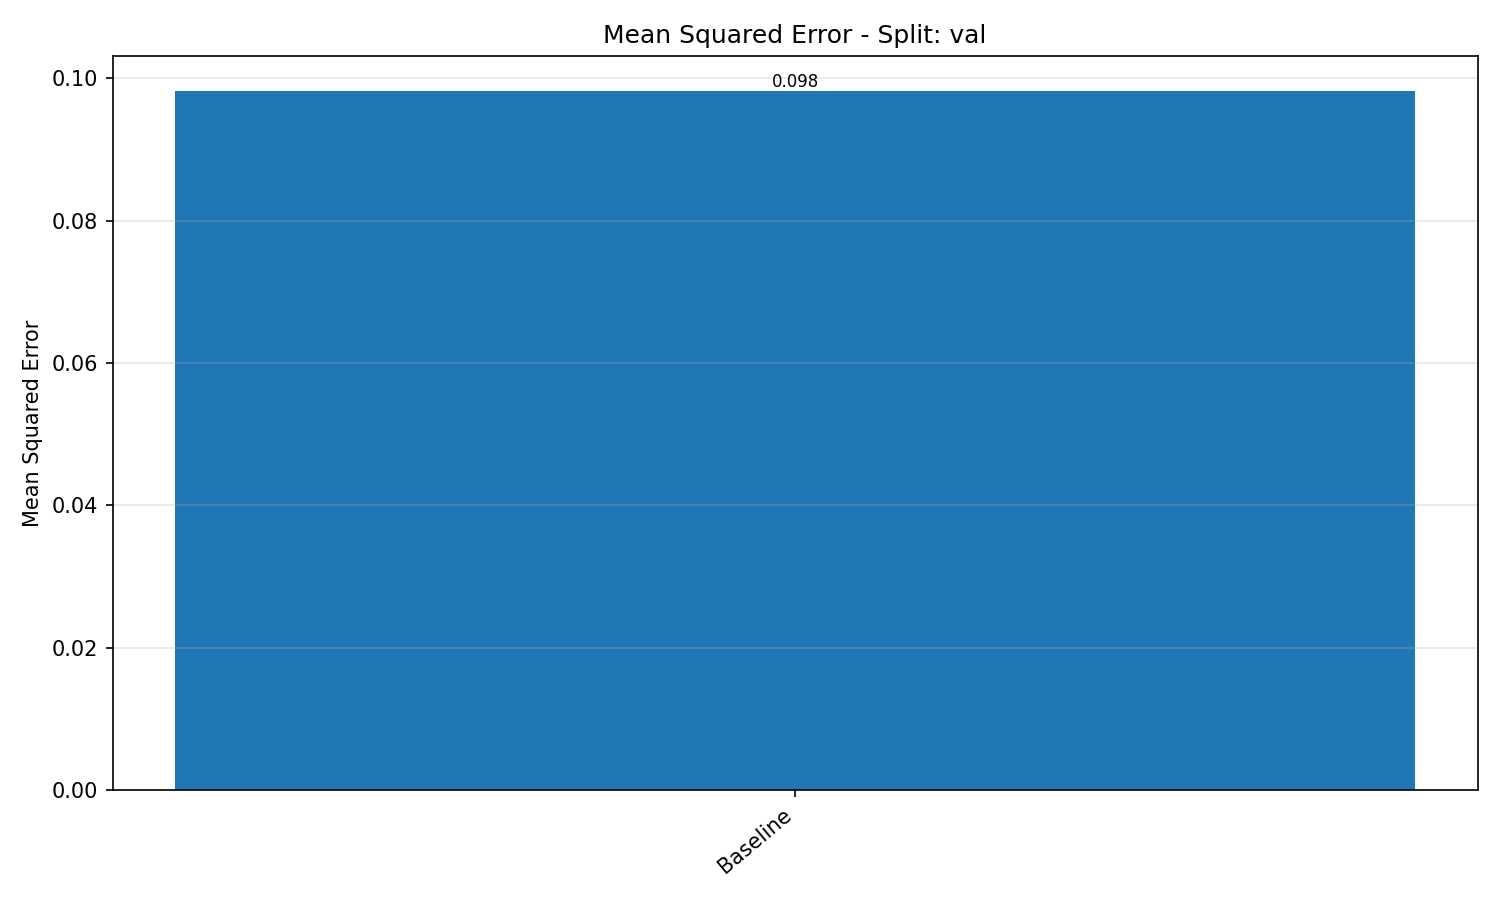
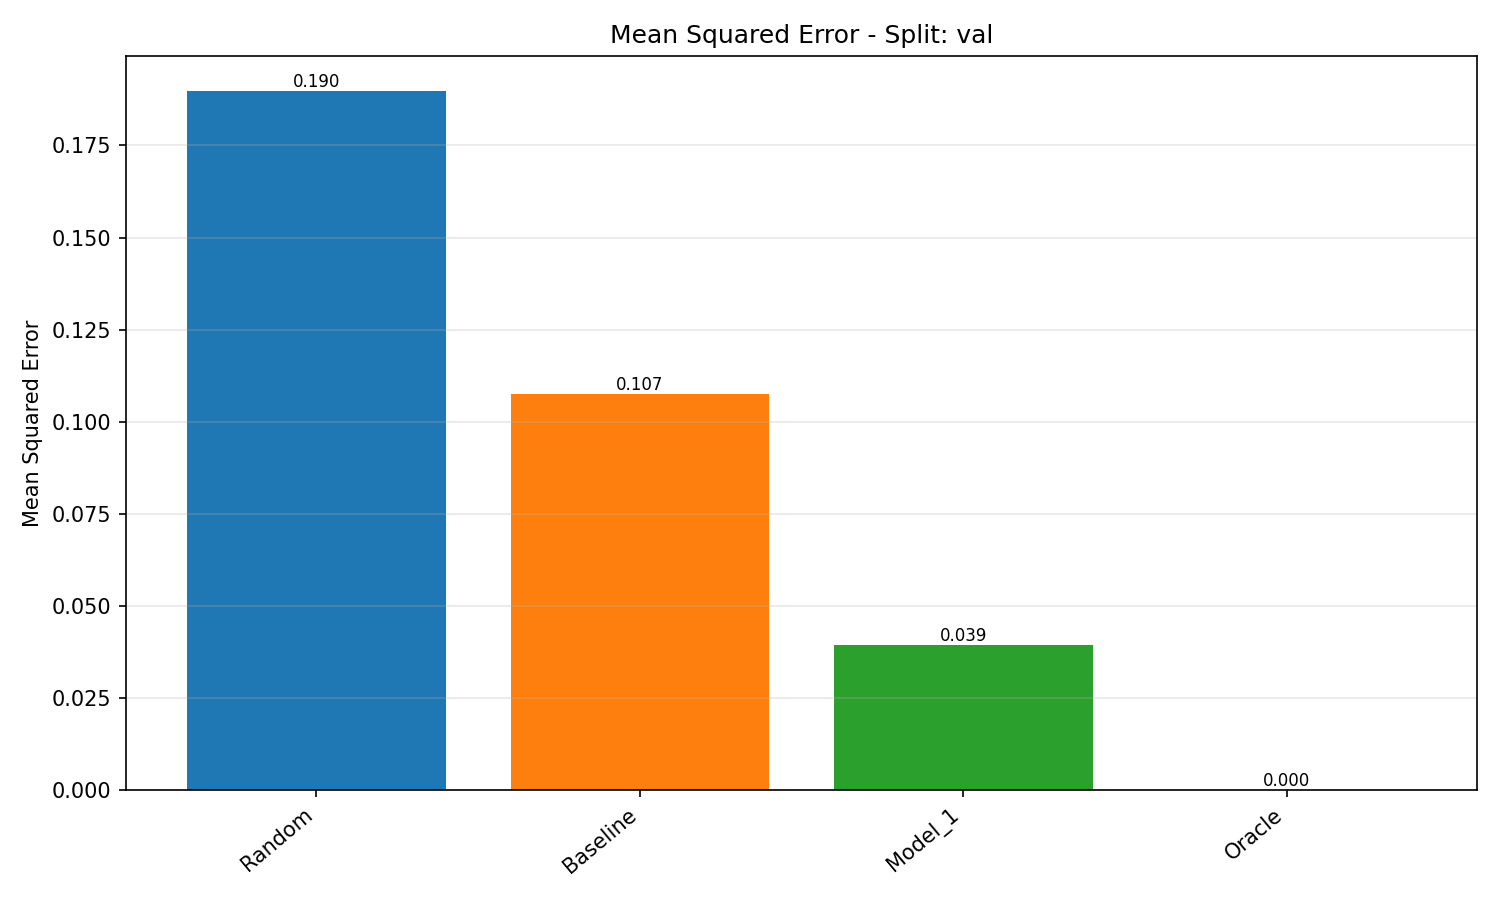
feat: added proper comparison report

diff --git a/compare_models_and_baseline.py b/compare_models_and_baseline.py
@@ -56,7 +56,7 @@ def load_model_and_config(model_path: str, device: torch.device):
     if "phi.0.weight" in state_dict:
         actual_input_dim = state_dict["phi.0.weight"].shape[1]
         model_cfg['input_dim'] = actual_input_dim
-    
+
     model = DeepSet(
         input_dim=model_cfg.get('input_dim'),
         phi_hidden_dims=model_cfg.get('phi_hidden_dims'),
@@ -76,7 +76,7 @@ def evaluate_model(model: torch.nn.Module, dataloader, device: torch.device):
     all_preds = []
     all_labels = []
     all_complex_ids = []
-    
+
     with torch.no_grad():
         for batch in tqdm(dataloader):
             feats = batch['features'].to(device)
@@ -93,7 +93,7 @@ def evaluate_model(model: torch.nn.Module, dataloader, device: torch.device):
             
             all_preds.append(preds.cpu().numpy().reshape(-1))
             all_labels.append(labels.cpu().numpy().reshape(-1))
-    
+
     predictions = np.concatenate(all_preds) if all_preds else np.array([])
     true_labels = np.concatenate(all_labels) if all_labels else np.array([])
     
@@ -137,7 +137,7 @@ def mean_squared_error(y_true: np.ndarray, y_pred: np.ndarray) -> float:
 
 def compute_topk_metrics(predictions: np.ndarray, true_labels: np.ndarray, 
                          complex_ids: list, quality_threshold: float = 0.23,
-                         k_values: list = [1, 3]) -> dict:
+                         k_values: list = [1]) -> dict:
     """
     
     Measure RANKING ACCURACY: How good is the top-K selection according to this ranking?
@@ -306,7 +306,7 @@ def plot_scatter(x_values: np.ndarray, y_values: np.ndarray, complex_ids: list,
     
     if len(x_plot) == 0:
         return
-    
+
     unique_cids = sorted(list(set(complex_ids_plot)))
     cid_to_idx = {cid: i for i, cid in enumerate(unique_cids)}
     colors = [cid_to_idx[c] for c in complex_ids_plot]
@@ -341,7 +341,7 @@ def plot_combined_scatter(all_data: list, xlabel: str, ylabel: str,
         color = model_colors.get(name, 'gray')
         plt.scatter(x_plot, y_plot, alpha=0.5, s=30, label=name,
                    color=color, marker=markers[i % len(markers)])
-    
+
     plt.plot([0,1], [0,1], 'k--', alpha=0.4, label='Ideal (1:1)')
     plt.xlabel(xlabel, fontsize=12)
     plt.ylabel(ylabel, fontsize=12)
@@ -365,7 +365,7 @@ def plot_metric_bars(metrics_data: OrderedDict, title: str, ylabel: str,
     
     if not names:
         return
-    
+
     plt.figure(figsize=(10, 6))
     bars = plt.bar(names, values, color=colors)
     plt.ylabel(ylabel, fontsize=10)
@@ -392,23 +392,20 @@ def main():
     parser.add_argument("--model_list_file", type=str, 
                        default="/proj/berzelius-2021-29/users/x_matta/antibody-antigen-predictions-ranker/configs/models_to_test.txt",
                        help="Text file with model paths, one per line")
-    parser.add_argument("--output_dir", type=str, default="comparison_reports",
+    parser.add_argument("--output_dir", type=str, default="comparison_reports_tmp",
                        help="Output directory for plots and reports")
-    parser.add_argument("--splits", type=str, default="val",
+    parser.add_argument("--splits", type=str, default="val,train,test",
                        help="Comma-separated splits to evaluate (e.g., val,test)")
-    parser.add_argument("--manifest_path", type=str, default=None,
+    parser.add_argument("--manifest_path", type=str, default="/proj/berzelius-2021-29/users/x_matta/antibody-antigen-predictions-ranker/data/manifest_new_with_filtered_test_density_with_clipping_500k_maxlen_esm.csv",
                        help="Path to manifest CSV (if not provided, uses first model's config)")
-    parser.add_argument("--batch_size", type=int, default=32,
-                       help="Batch size for evaluation")
-    parser.add_argument("--num_workers", type=int, default=4,
-                       help="Number of dataloader workers")
-    
+
+
     args = parser.parse_args()
     os.makedirs(args.output_dir, exist_ok=True)
     
     device = torch.device("cuda" if torch.cuda.is_available() else "cpu")
     splits = [s.strip() for s in args.splits.split(',') if s.strip()]
-    
+
     # Load model paths
     if not os.path.exists(args.model_list_file):
         print(f"Error: Model list file not found: {args.model_list_file}")
@@ -416,15 +413,15 @@ def main():
     
     with open(args.model_list_file, 'r') as f:
         model_paths = [line.strip() for line in f if line.strip() and not line.startswith('#')]
-    
+
     if not model_paths:
         print("No model paths found")
         return
-    
+
     # Generate model IDs and colors
     baseline_id = "Baseline"
     model_ids = {path: f"Model_{i+1}" for i, path in enumerate(model_paths)}
-    all_ids = [baseline_id] + list(model_ids.values())
+    all_ids = ["Random", baseline_id] + list(model_ids.values()) + ["Oracle"]
     
     cmap = matplotlib.colormaps.get_cmap('tab10')
     model_colors = {name: cmap(i % 10) for i, name in enumerate(all_ids)}
@@ -443,26 +440,26 @@ def main():
     if not os.path.exists(manifest_path):
         print(f"Error: Manifest not found: {manifest_path}")
         return
-    
+
     # Load manifest
     try:
         main_df = pd.read_csv(manifest_path)
     except Exception as e:
         print(f"Error reading manifest: {e}")
         return
-    
+
     ranking_col = "ranking_confidence" if "ranking_confidence" in main_df.columns else "ranking_score"
     required_cols = ['complex_id', 'label', ranking_col, 'split']
     if not all(col in main_df.columns for col in required_cols):
         print(f"Error: Missing required columns in manifest")
         return
-    
+
     # Collect data for all models and baseline
     all_results = defaultdict(dict)
-    
+
     for split in splits:
         print(f"\n=== Processing split: {split} ===")
-        
+
         # Baseline data
         split_df = main_df[main_df['split'] == split].reset_index(drop=True)
         if not split_df.empty:
@@ -471,9 +468,24 @@ def main():
                 "true_dockq": split_df['label'].values,
                 "complex_ids": split_df['complex_id'].tolist(),
             }
+            
             #how many samples and how many complexes
             print(f"Baseline: {len(split_df)} samples and {len(split_df['complex_id'].unique())} complexes")
-        
+            # Random baseline: random scores for each structure
+            np.random.seed(42)
+            all_results["Random"][split] = {
+                "predictions": np.random.uniform(0, 1, len(split_df)),
+                "true_dockq": split_df['label'].values,
+                "complex_ids": split_df['complex_id'].tolist(),
+            }
+            
+            # Oracle baseline: always predict the true quality (best possible)
+            all_results["Oracle"][split] = {
+                "predictions": split_df['label'].values,  # Perfect predictions
+                "true_dockq": split_df['label'].values,
+                "complex_ids": split_df['complex_id'].tolist(),
+            }
+
         # Model data
         for model_path in model_paths:
             model_id = model_ids[model_path]
@@ -483,18 +495,23 @@ def main():
                 model, config = load_model_and_config(model_path, device)
                 data_cfg = config.get('data', {})
                 
+                batch_size = data_cfg.get('batch_size_per_gpu', 16)
+                num_workers = data_cfg.get('num_workers', 20)
                 dataloader = get_eval_dataloader(
                     manifest_csv=manifest_path,
                     split=split,
-                    batch_size=args.batch_size,
-                    num_workers=args.num_workers,
+                    batch_size=batch_size,
+                    num_workers=num_workers,
                     samples_per_complex=data_cfg.get('samples_per_complex', 10),
                     feature_transform=data_cfg.get('feature_transform', True),
                     feature_centering=data_cfg.get('feature_centering', False),
                     use_interchain_ca_distances=data_cfg.get('use_interchain_ca_distances', True),
                     use_interchain_pae=data_cfg.get('use_interchain_pae', True),
                     use_esm_embeddings=data_cfg.get('use_esm_embeddings', False),
+                    use_distance_cutoff=data_cfg.get('use_distance_cutoff', True),
                     use_file_cache=data_cfg.get('use_file_cache', True),
+                    cache_size_mb=data_cfg.get('cache_size_mb', 2048),
+                    max_cached_files=data_cfg.get('max_cached_files', 150),
                     seed=data_cfg.get('seed', 42)
                 )
                 
@@ -507,10 +524,10 @@ def main():
                         "complex_ids": cids,
                     }
                     print(f"  {model_id}: {len(preds)} samples")
-                
+
             except Exception as e:
                 print(f"  Error with {model_id}: {e}")
-    
+
     # Compute metrics
     print("\n=== Computing Metrics ===")
     all_metrics = defaultdict(lambda: defaultdict(dict))
@@ -540,7 +557,7 @@ def main():
             metrics['Avg_PerComplex_Spearman'] = np.mean(per_complex_spearman) if per_complex_spearman else np.nan
             
             # Top-K metrics
-            topk_metrics = compute_topk_metrics(preds, true_dockq, cids, k_values=[1, 3])
+            topk_metrics = compute_topk_metrics(preds, true_dockq, cids, k_values=[1])
             metrics.update(topk_metrics)
             
             # Quality discrimination
@@ -554,7 +571,7 @@ def main():
         os.makedirs(split_dir, exist_ok=True)
         
         combined_data_dockq = []
-        
+
         for model_id in all_results.keys():
             if split not in all_results[model_id]:
                 continue
@@ -593,9 +610,7 @@ def main():
             ('Pearson_DockQ', 'Pearson Correlation', False),
             ('MSE_DockQ', 'Mean Squared Error', True),
             ('Top1_mean_quality', 'Top-1 Mean Quality', False),
-            ('Top3_mean_quality', 'Top-3 Mean Quality', False),
             ('Top1_success_rate', 'Top-1 Success Rate', False),
-            ('Top3_success_rate', 'Top-3 Success Rate', False),
         ]
         
         for metric_key, metric_title, lower_better in metric_names:
@@ -627,7 +642,7 @@ def main():
                 else:
                     row[k] = str(v)
             report_data.append(row)
-    
+
     if report_data:
         df_summary = pd.DataFrame(report_data)
         
@@ -641,23 +656,42 @@ def main():
         print(df_summary.to_string(index=False))
         print("="*80)
         
-        # Print best performers
+        # Print performance comparison vs Random, Baseline, and Oracle
+        # calculated as (model_val - baseline_val) / abs(baseline_val) * 100
         for split in splits:
-            df_split = df_summary[df_summary['Split'] == split]
+            df_split = df_summary[df_summary['Split'] == split].copy()
             if df_split.empty:
                 continue
             
-            print(f"\n=== Best Performers - Split: {split} ===")
+            print(f"\n=== Performance Comparison - Split: {split} ===")
+            random_row = df_split[df_split['Model'] == 'Random']
+            baseline_row = df_split[df_split['Model'] == baseline_id]
             
-            # Convert to numeric for comparison
-            for col in ['Spearman_DockQ', 'Top1_mean_quality', 'Top3_mean_quality']:
-                if col in df_split.columns:
-                    df_split[col] = pd.to_numeric(df_split[col], errors='coerce')
-                    if df_split[col].notna().sum() > 0:
-                        best_idx = df_split[col].idxmax()
-                        best = df_split.loc[best_idx]
-                        print(f"  Best {col}: {best['Model']} ({best[col]:.4f})")
-    
+            for col in ['Spearman_DockQ', 'Top1_mean_quality', 'Top1_success_rate']:
+                if col not in df_split.columns:
+                    continue
+                df_split[col] = pd.to_numeric(df_split[col], errors='coerce')
+                print(f"\n  {col}:")
+                for idx, row in df_split.iterrows():
+                    model_val = row[col]
+                    if row['Model'] in ['Random', 'Baseline', 'Oracle']:
+                        print(f"    {row['Model']}: {model_val:.4f}")
+                    else:
+                        # For trained models, show % vs Random and Baseline
+                        parts = [f"    {row['Model']}: {model_val:.4f} ("]
+                        if len(random_row) > 0:
+                            random_val = pd.to_numeric(random_row[col].values[0], errors='coerce')
+                            if not np.isnan(random_val) and random_val != 0:
+                                pct_vs_random = ((model_val - random_val) / abs(random_val)) * 100
+                                parts.append(f"{pct_vs_random:+.1f}% vs Random, ")
+                        if len(baseline_row) > 0:
+                            baseline_val = pd.to_numeric(baseline_row[col].values[0], errors='coerce')
+                            if not np.isnan(baseline_val) and baseline_val != 0:
+                                pct_vs_baseline = ((model_val - baseline_val) / abs(baseline_val)) * 100
+                                parts.append(f"{pct_vs_baseline:+.1f}% vs Baseline")
+                        parts.append(")")
+                        print("".join(parts))
+                        
     print(f"\nAll outputs saved to: {args.output_dir}")
 
 

diff --git a/src/data/dataloader.py b/src/data/dataloader.py
@@ -423,13 +423,13 @@ class PerComplexSequentialSampler(torch.utils.data.Sampler):
     """
     Deterministic, no-shuffle sampler for evaluation.
     Yields flat lists of indices of length B*K (B complexes × K decoys),
-    in manifest order. Drops the remainder if the last chunk/batch is shorter than B.
+    in manifest order. Pads the last batch by repeating chunks to ensure all data is evaluated.
     """
-    def __init__(self, dataset, batch_size: int, samples_per_complex: int):
+    def __init__(self, dataset, batch_size: int, samples_per_complex: int, pad_last_batch: bool = True):
         self.df = dataset.df                      # already split='val'
         self.batch_size = batch_size              # B
-        print(f"the batch size for the validation sampler is {self.batch_size}")
         self.K = samples_per_complex              # K
+        self.pad_last_batch = pad_last_batch
 
         # Complexes in manifest order (no shuffle)
         from collections import OrderedDict
@@ -448,11 +448,25 @@ class PerComplexSequentialSampler(torch.utils.data.Sampler):
                 chunk = rows[i:i+self.K]
                 self.chunks.append(chunk)
 
-        # Batch chunks deterministically into size B; drop if last batch is smaller than B
+        # Batch chunks deterministically into size B
         self.batches = []
         print(f"the batch size for the validation sampler is {self.batch_size}")
         for i in range(0, len(self.chunks), self.batch_size):
             batch_chunks = self.chunks[i:i+self.batch_size]
+            
+            # Pad incomplete batches if requested
+            if len(batch_chunks) < self.batch_size:
+                if self.pad_last_batch:
+                    # Pad by repeating chunks from the beginning
+                    needed = self.batch_size - len(batch_chunks)
+                    padding_chunks = self.chunks[:needed]
+                    batch_chunks.extend(padding_chunks)
+                    print(f"Padding last validation batch: added {needed} chunks to reach {self.batch_size} complexes")
+                else:
+                    print(f"Dropping incomplete validation batch with {len(batch_chunks)} complexes (expected {self.batch_size})")
+                    continue
+            
+            # Flatten to a single list of indices
             flat = [idx for ch in batch_chunks for idx in ch]
             self.batches.append(flat)
 
